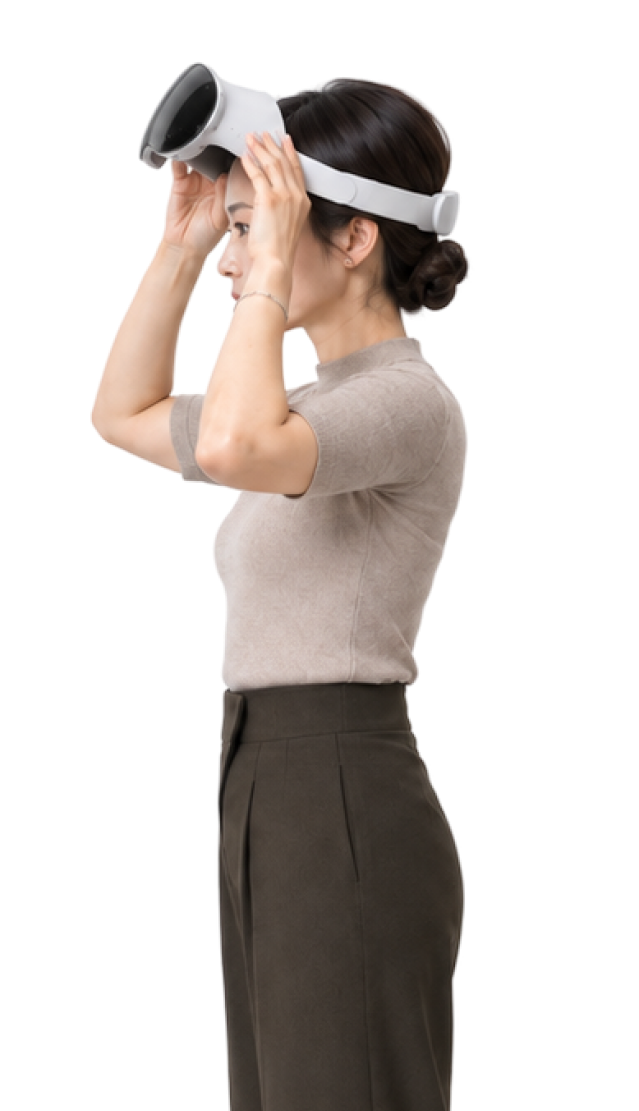
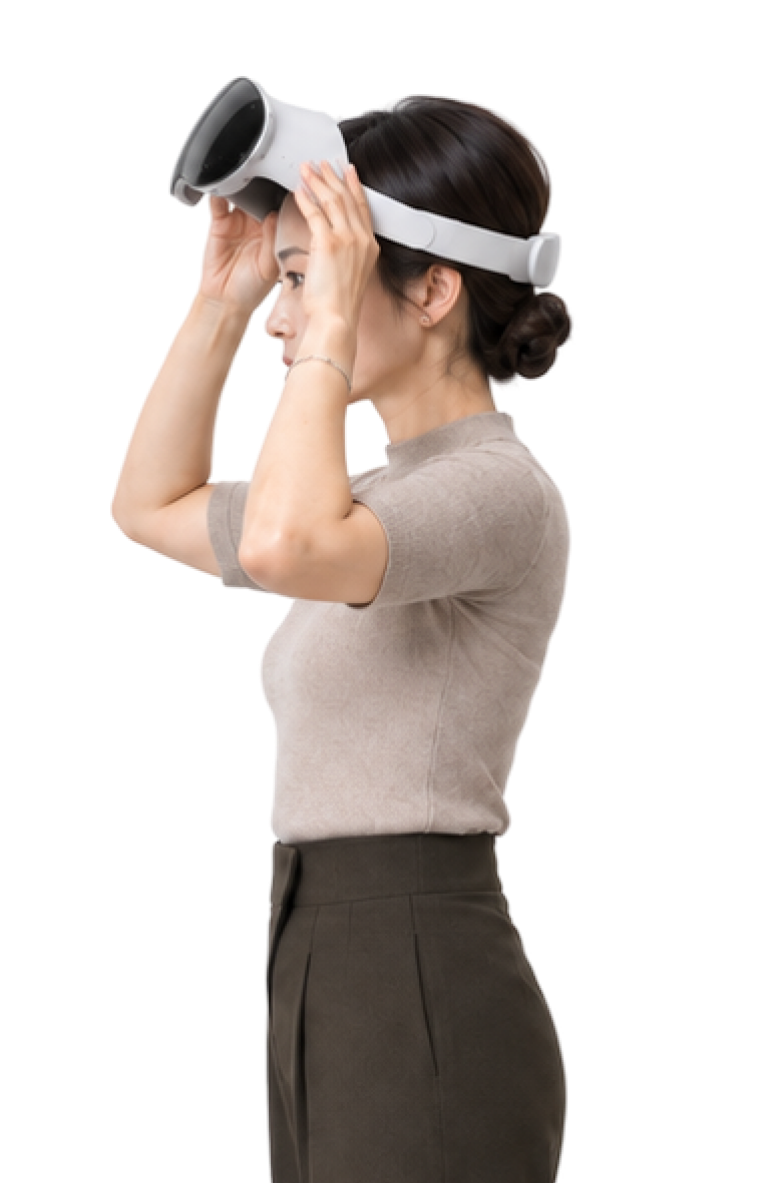
상담 시작(S1): 김민선 이미지 크기·위치를 수정된 Figma 값으로
- 780×1183, (1154, 109)로 키우고 왼쪽·위로 이동. 이미지는 Figma에서 다시 추출
- 캡처 갱신

Claude-Session: https://claude.ai/code/session_01RXp8MY4RTNqnWJfB5JWhVs

Changed region(s): [[0.1189, 0.0306, 0.7433, 1.0]]

diff --git a/mvp/src/tablet/tablet.css b/mvp/src/tablet/tablet.css
@@ -1705,10 +1705,10 @@
 /* 김민선: 오른쪽에서 헤드셋을 쓰는 모습(허리 아래는 화면 밖) */
 .loading-kim {
   position: absolute;
-  left: 1236px;
-  top: 181px;
-  width: 639px;
-  height: 1111px;
+  left: 1154px;
+  top: 109px;
+  width: 780px;
+  height: 1183px;
   animation: kim-in 0.7s cubic-bezier(0.2, 0.8, 0.3, 1) 0.1s both;
 }
 
